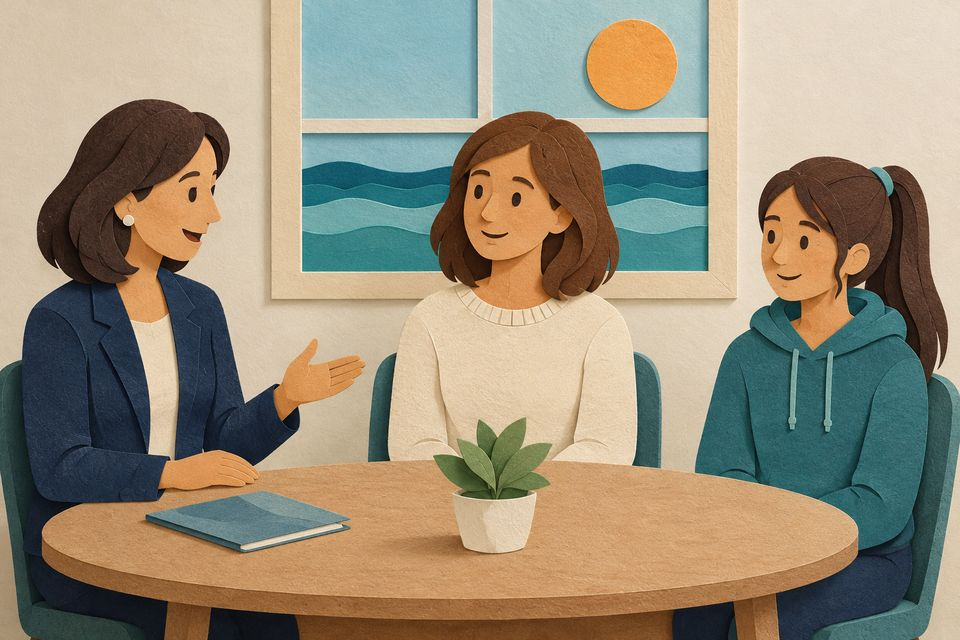
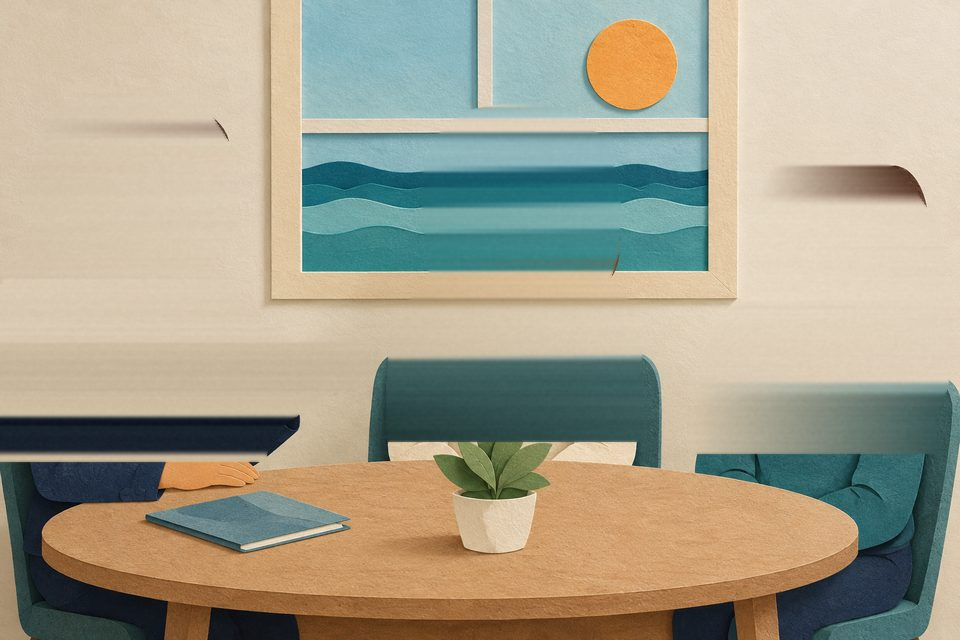
v2-pro preview: whole-body stop-motion puppets in step 1
Claude-Session: https://claude.ai/code/session_01YFmgE8t31npEdtV1E44xiG

Changed region(s): [[0.0, 0.1562, 0.6875, 0.75], [0.7188, 0.2188, 1.0, 0.7188]]

diff --git a/v2-pro/index.html b/v2-pro/index.html
@@ -130,9 +130,18 @@ p { margin: 0; }
 .stepimg .base { display: block; width: 100%; height: 100%; object-fit: cover; }
 /* step 1: the three heads are separate paper pieces that tilt in turn, as if talking */
 .stepimg .head { position: absolute; display: block; pointer-events: none; }
-.stepimg .h1 { left: 2.917%; top: 13.75%; width: 22.083%; transform-origin: 64.6% 96%; }
-.stepimg .h2 { left: 44.167%; top: 16.25%; width: 20.625%; transform-origin: 49.5% 98%; }
-.stepimg .h3 { left: 77.917%; top: 23.4375%; width: 21.25%; transform-origin: 31.4% 98.5%; }
+.stepimg .pc { position: absolute; display: block; pointer-events: none; }
+.stepimg .pc .bimg { display: block; width: 100%; height: auto; }
+.stepimg .pc .arm, .stepimg .pc .head { position: absolute; display: block; height: auto; }
+.journey.live li.played .stepimg .pc.b1 { animation: body-1 4.8s steps(1, end) 1.2s infinite; }
+.journey.live li.played .stepimg .pc.b2 { animation: body-2 4.8s steps(1, end) 1.2s infinite; }
+.journey.live li.played .stepimg .pc.b3 { animation: body-3 4.8s steps(1, end) 1.2s infinite; }
+.journey.live li.played .stepimg .arm { animation: arm-1 4.8s steps(1, end) 1.2s infinite; }
+.stepimg:not(.inview) .pc, .stepimg:not(.inview) .arm { animation-play-state: paused !important; }
+@keyframes body-1 { 0% { transform: none; } 5% { transform: rotate(-1.4deg); } 10% { transform: rotate(.5deg); } 15% { transform: rotate(-1.1deg) translateY(-.6%); } 20% { transform: rotate(.4deg); } 25% { transform: rotate(-1.6deg); } 30% { transform: rotate(.6deg) translateY(-.4%); } 35% { transform: rotate(-.9deg); } 45% { transform: none; } 70% { transform: rotate(.9deg); } 80% { transform: none; } 100% { transform: none; } }
+@keyframes arm-1 { 0% { transform: none; } 5% { transform: rotate(-9deg); } 10% { transform: rotate(3deg); } 15% { transform: rotate(-6deg); } 20% { transform: rotate(4deg); } 25% { transform: rotate(-11deg); } 30% { transform: rotate(1deg); } 35% { transform: rotate(-5deg); } 45% { transform: none; } 100% { transform: none; } }
+@keyframes body-2 { 0% { transform: none; } 20% { transform: rotate(.8deg) translateY(.5%); } 25% { transform: none; } 50% { transform: rotate(-1.2deg); } 55% { transform: rotate(1deg) translateY(-.6%); } 60% { transform: rotate(-1.4deg); } 65% { transform: rotate(.8deg); } 70% { transform: rotate(-1deg) translateY(-.4%); } 75% { transform: none; } 100% { transform: none; } }
+@keyframes body-3 { 0% { transform: none; } 35% { transform: rotate(-1deg); } 40% { transform: none; } 80% { transform: rotate(-2deg); } 85% { transform: rotate(-2.2deg) translateY(.6%); } 90% { transform: rotate(-1.4deg); } 95% { transform: rotate(-.5deg); } 100% { transform: none; } }
 .journey.live li.played .stepimg .h1 { animation: talk-1 4.8s steps(1, end) 1.2s infinite; }
 .journey.live li.played .stepimg .h2 { animation: talk-2 4.8s steps(1, end) 1.2s infinite; }
 .journey.live li.played .stepimg .h3 { animation: talk-3 4.8s steps(1, end) 1.2s infinite; }
@@ -148,7 +157,7 @@ p { margin: 0; }
 @keyframes sm-pop { 0% { opacity: .35; transform: scale(.94) rotate(-1.5deg); } 25% { opacity: .8; transform: scale(1.05) rotate(1.2deg); } 50% { opacity: 1; transform: scale(.98) rotate(-.6deg); } 75% { transform: scale(1.01) rotate(.3deg); } 100% { opacity: 1; transform: none; } }
 @keyframes sm-boil { 0% { transform: translate(0,0) rotate(0); } 25% { transform: translate(.4%, -.3%) rotate(.25deg); } 50% { transform: translate(-.3%, .2%) rotate(-.2deg); } 75% { transform: translate(.2%, .3%) rotate(.15deg); } 100% { transform: none; } }
 @keyframes sm-hop { 0% { opacity: 1; left: 6%; top: 30%; } 12% { left: 18%; top: 14%; } 25% { left: 31%; top: 8%; } 37% { left: 44%; top: 6%; } 50% { left: 57%; top: 8%; } 62% { left: 70%; top: 14%; } 75% { left: 81%; top: 9%; } 87% { left: 87%; top: 7%; } 100% { opacity: 1; left: 87%; top: 7%; } }
-@media (prefers-reduced-motion: reduce) { .journey.live li .stepimg .scene, .stepimg .head { opacity: 1 !important; transform: none !important; animation: none !important; } }
+@media (prefers-reduced-motion: reduce) { .journey.live li .stepimg .scene, .stepimg .head, .stepimg .pc, .stepimg .arm { opacity: 1 !important; transform: none !important; animation: none !important; } }
 
 /* header */
 body::before { content: ""; position: fixed; inset: 0 0 auto; height: env(safe-area-inset-top, 0px); z-index: 10; background: var(--paper); }
@@ -378,7 +387,7 @@ footer .base { margin-top: 40px; padding-top: 18px; border-top: 1px solid rgba(2
       <div>
         <div class="journey" id="journey"><span class="track" aria-hidden="true"><span class="fill"></span><span class="dot"></span></span>
         <ol class="process">
-          <li><span class="n">1</span><h3><span class="en">A free conversation</span><span class="zh">免费沟通</span></h3><p><span class="en">Tell us about age, grades, English level, budget and goals, by WeChat call or in person.</span><span class="zh">通过微信语音或面谈，聊聊年龄、成绩、英语水平、预算和目标。</span><span class="who"><span class="en">With Oriwis</span><span class="zh">Oriwis 陪同</span></span></p><div class="stepimg"><div class="scene"><img class="base" src="images/v2/step1.jpg" alt="Paper-cut illustration: a consultant talking with a mother and her daughter at a table" width="960" height="640" loading="lazy"><img class="head h1" src="images/v2/step1-h1.png" alt="" loading="lazy"><img class="head h2" src="images/v2/step1-h2.png" alt="" loading="lazy"><img class="head h3" src="images/v2/step1-h3.png" alt="" loading="lazy"></div><i class="ps" aria-hidden="true"></i></div></li>
+          <li><span class="n">1</span><h3><span class="en">A free conversation</span><span class="zh">免费沟通</span></h3><p><span class="en">Tell us about age, grades, English level, budget and goals, by WeChat call or in person.</span><span class="zh">通过微信语音或面谈，聊聊年龄、成绩、英语水平、预算和目标。</span><span class="who"><span class="en">With Oriwis</span><span class="zh">Oriwis 陪同</span></span></p><div class="stepimg"><div class="scene"><img class="base" src="images/v2/step1.jpg" alt="Paper-cut illustration: a consultant talking with a mother and her daughter at a table" width="960" height="640" loading="lazy"><div class="pc b1" style="left:0.000%;top:14.062%;width:38.438%;transform-origin:35.8% 98.7%"><img class="bimg" src="images/v2/step1-b1.png" alt="" loading="lazy"><img class="arm" src="images/v2/step1-arm.png" alt="" loading="lazy" style="left:64.499%;top:58.824%;width:35.501%;transform-origin:18.3% 84.4%"><img class="head h1" src="images/v2/step1-h1.png" alt="" loading="lazy" style="left:7.588%;top:-0.512%;width:57.453%;transform-origin:64.6% 96.2%"></div><div class="pc b2" style="left:40.417%;top:16.250%;width:26.562%;transform-origin:49.8% 99.2%"><img class="bimg" src="images/v2/step1-b2.png" alt="" loading="lazy"><img class="head h2" src="images/v2/step1-h2.png" alt="" loading="lazy" style="left:14.118%;top:0.000%;width:77.647%;transform-origin:49.5% 98.0%"></div><div class="pc b3" style="left:72.500%;top:23.750%;width:26.771%;transform-origin:47.5% 99.1%"><img class="bimg" src="images/v2/step1-b3.png" alt="" loading="lazy"><img class="head h3" src="images/v2/step1-h3.png" alt="" loading="lazy" style="left:20.233%;top:-0.623%;width:79.377%;transform-origin:31.4% 98.9%"></div></div><i class="ps" aria-hidden="true"></i></div></li>
           <li><span class="n">2</span><h3><span class="en">Your shortlist</span><span class="zh">匹配清单</span></h3><p><span class="en">A short list of suitable UK schools or courses, with entry requirements and timing explained.</span><span class="zh">一份适合你的英国学校或课程清单，讲清入学要求和时间安排。</span><span class="who"><span class="en">With Oriwis</span><span class="zh">Oriwis 陪同</span></span></p><div class="stepimg"><div class="scene"><img class="base" src="images/v2/step2.jpg" alt="Paper-cut illustration: a shortlist of three British schools beside a map" width="960" height="640" loading="lazy"></div><i class="ps" aria-hidden="true"></i></div></li>
           <li class="you"><span class="n">3</span><h3><span class="en">Introduction to the school</span><span class="zh">对接学校</span></h3><p><span class="en">We introduce you to the school or its official partner. You apply and pay them directly.</span><span class="zh">我们为你介绍学校或其官方合作方，申请与缴费由你直接完成。</span><span class="who"><span class="en">You and the school</span><span class="zh">你与学校</span></span></p><div class="stepimg"><div class="scene"><img class="base" src="images/v2/step3.jpg" alt="Paper-cut illustration: a student and her mother welcomed at a British school gate" width="960" height="640" loading="lazy"></div><i class="ps" aria-hidden="true"></i></div></li>
         </ol></div>
@@ -476,7 +485,7 @@ footer .base { margin-top: 40px; padding-top: 18px; border-top: 1px solid rgba(2
         <p class="legal"><span class="en">Oriwis provides study-abroad information matching, preliminary consultations and referrals only. We are not a study-abroad agency. We do not handle admissions, collect fees from students, or sign admission guarantee agreements. Students register, pay and complete all procedures directly with the school or its overseas partner.</span><span class="zh">Oriwis 仅提供留学信息匹配、初步咨询与转介服务，不是留学中介机构。我们不代办入学申请，不向学生收取费用，不签署任何录取担保协议。学生最终直接向学校或海外合作方注册、缴费并办理相关手续。</span></p>
       </div>
     </div>
-    <div class="base"><span>© <span id="yr">2026</span> Oriwis · Preview 23 Nov 01:28</span><span><span class="en">Photos are AI-generated illustrations, not real students or schools.</span><span class="zh">网站图片为 AI 生成的示意图，并非真实学生或学校。</span></span></div>
+    <div class="base"><span>© <span id="yr">2026</span> Oriwis · Preview 23 Nov 01:31</span><span><span class="en">Photos are AI-generated illustrations, not real students or schools.</span><span class="zh">网站图片为 AI 生成的示意图，并非真实学生或学校。</span></span></div>
   </div>
 </footer>
 
